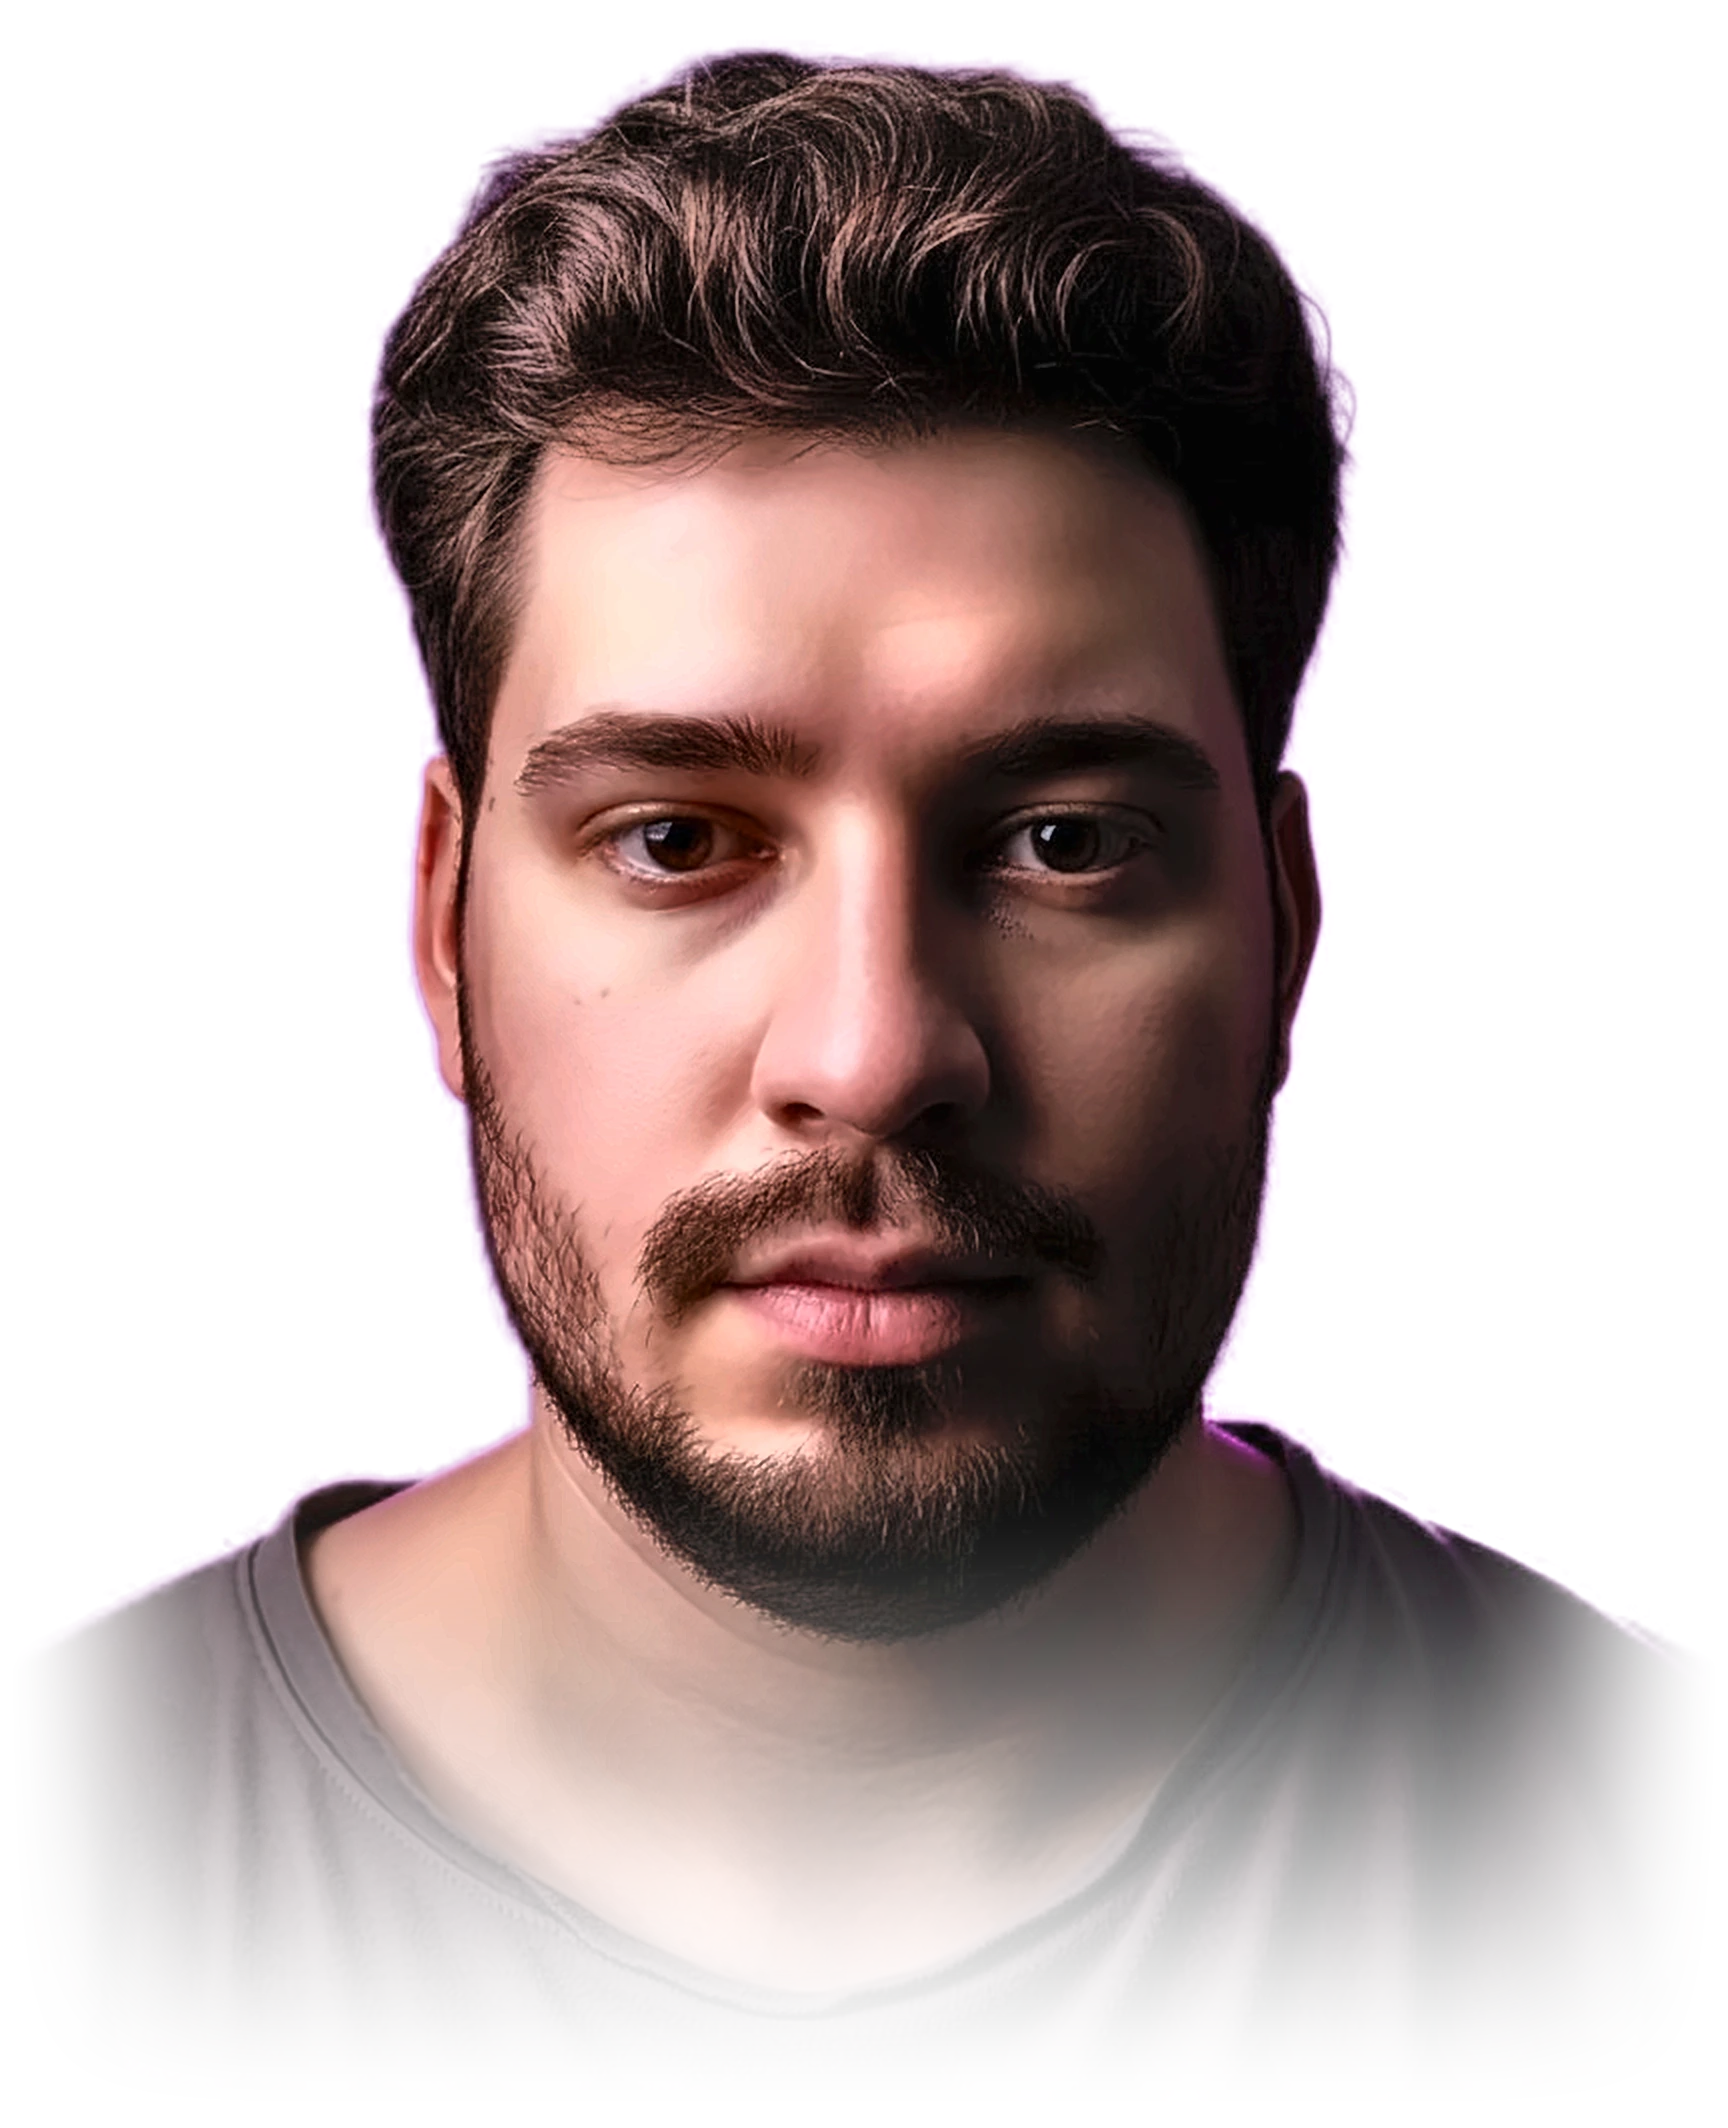
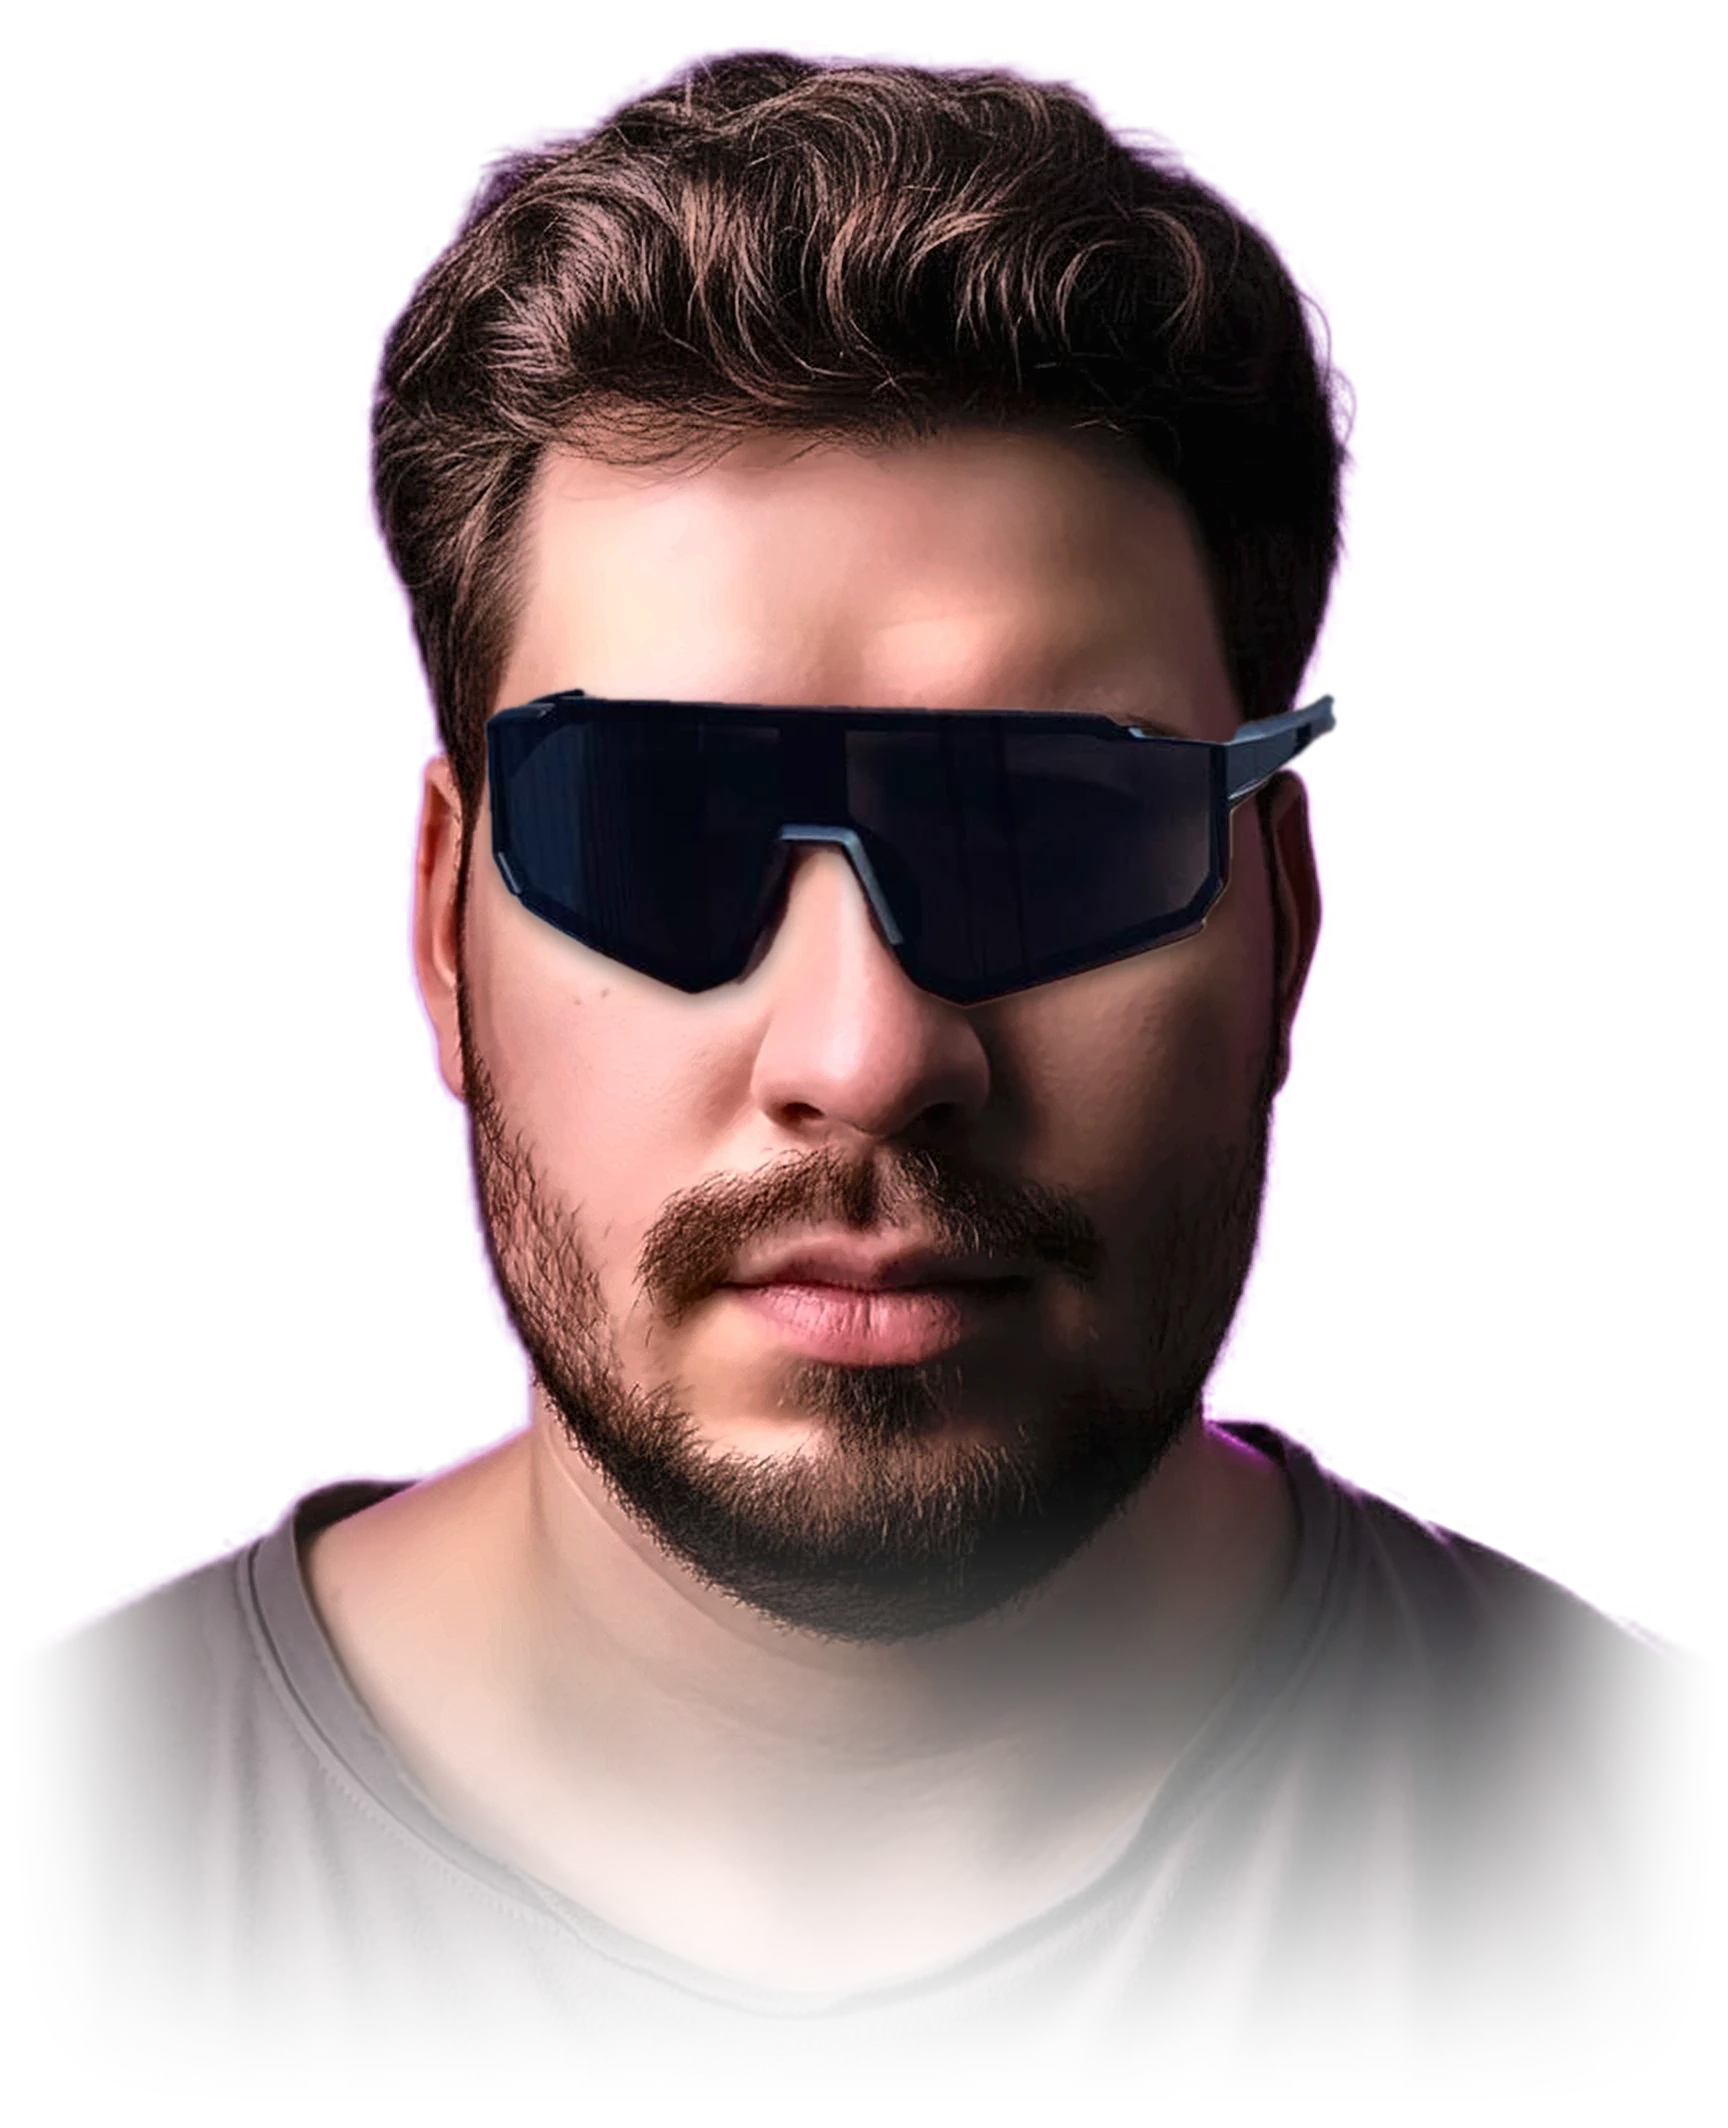
v2: shield glasses composited into hero photo, video masked inside lens
Claude-Session: https://claude.ai/code/session_016mbQdegGQk4836ehLAt8v1

Changed region(s): [[0.2812, 0.3102, 0.7812, 0.4962]]

diff --git a/v2/template.html b/v2/template.html
@@ -54,25 +54,7 @@
   <div class="hero-top mono"><span class="hide-s">UX/UI · WEB · MOBILE · CRM</span></div>
   <div class="hero-glow g1" aria-hidden="true"></div><div class="hero-glow g2" aria-hidden="true"></div>
   <div class="hero-bgtxt" aria-hidden="true"><div class="bgrow rev"><div class="mq-t"><span>UXUI</span><span class="o">UXUI</span></div></div><div class="bgrow"><div class="mq-t"><span>UXUI</span><span class="o">UXUI</span></div></div></div>
-  <div class="hero-fig" aria-hidden="true"><div class="hero-ph" id="hero-ph"><div class="hero-bob"><img class="me" src="{{ROOT}}v2/img/me.webp" width="1728" height="2128" alt="" fetchpriority="high"><img class="me lit" src="{{ROOT}}v2/img/me.webp" width="1728" height="2128" alt=""><div class="glasses" aria-hidden="true">
-    <svg class="gl-defs" width="0" height="0" style="position:absolute"><defs><clipPath id="lensclip" clipPathUnits="objectBoundingBox"><path d="M0.0098,0.1000 L0.9926,0.0500 L1.0025,0.4500 L0.9069,0.8500 L0.6863,0.9750 L0.5858,0.4250 L0.4167,0.4250 L0.3162,0.9750 L0.0980,0.9000 L0.0000,0.5000 Z"/></clipPath></defs></svg>
-    <svg class="gl-tint" viewBox="0 0 864 1064" preserveAspectRatio="none"><path d="M236,392 L637,388 L641,420 L602,452 L512,462 L471,418 L402,418 L361,462 L272,456 L232,424 Z" fill="rgba(6,2,18,.78)"/></svg>
-    <video class="gl-video" id="gl-video" src="{{ROOT}}v2/video/visor.mp4" poster="{{ROOT}}v2/video/visor.jpg" muted loop playsinline autoplay preload="auto"></video>
-    <svg class="gl-frame" viewBox="0 0 864 1064" preserveAspectRatio="none">
-      <defs><linearGradient id="gloss" x1="0" y1="0" x2="1" y2="1"><stop offset="0" stop-color="#fff" stop-opacity=".38"/><stop offset=".4" stop-color="#fff" stop-opacity=".05"/><stop offset=".5" stop-color="#fff" stop-opacity="0"/></linearGradient>
-      <filter id="neon" x="-20%" y="-40%" width="140%" height="180%"><feGaussianBlur stdDeviation="3" result="b"/><feMerge><feMergeNode in="b"/><feMergeNode in="SourceGraphic"/></feMerge></filter></defs>
-      <path d="M236,392 L637,388 L641,420 L602,452 L512,462 L471,418 L402,418 L361,462 L272,456 L232,424 Z" fill="url(#gloss)" style="mix-blend-mode:screen"/>
-      <g fill="none" stroke-linejoin="round" stroke-linecap="round">
-        <path d="M236,394 L212,404 L208,470 M637,390 L662,400 L664,468" stroke="#0b0b10" stroke-width="9"/>
-        <path d="M236,392 L637,388 L641,420 L602,452 L512,462 L471,418 L402,418 L361,462 L272,456 L232,424 Z" stroke="#0b0b10" stroke-width="11"/>
-        <path d="M236,388 L637,384" stroke="#0b0b10" stroke-width="14"/>
-        <path d="M402,418 L471,418" stroke="#0b0b10" stroke-width="12"/>
-        <path d="M238,382 L636,378" stroke="#b44cff" stroke-width="2.4" filter="url(#neon)"/>
-        <path d="M236,392 L637,388 L641,420 L602,452 L512,462 L471,418 L402,418 L361,462 L272,456 L232,424 Z" stroke="#7b22e6" stroke-width="1.6" opacity=".85"/>
-      </g>
-      <path d="M240,396 L254,394 M624,392 L634,391" stroke="#fff" stroke-width="2" opacity=".6"/>
-    </svg>
-  </div></div></div></div>
+  <div class="hero-fig" aria-hidden="true"><div class="hero-ph" id="hero-ph"><div class="hero-bob"><img class="me" src="{{ROOT}}v2/img/me.webp" width="1728" height="2128" alt="" fetchpriority="high"><img class="me lit" src="{{ROOT}}v2/img/me.webp" width="1728" height="2128" alt=""><div class="glasses" aria-hidden="true"><video class="gl-video" id="gl-video" src="{{ROOT}}v2/video/visor.mp4" poster="{{ROOT}}v2/video/visor.jpg" muted loop playsinline autoplay preload="auto"></video></div></div></div></div>
   <h1 class="hero-h">
     <span class="ln"><span class="ln-i out">[[h1a]]</span></span>
     <span class="ln r"><span class="ln-i fill">[[h1b]]</span></span>

diff --git a/v2/index.html b/v2/index.html
@@ -54,25 +54,7 @@
   <div class="hero-top mono"><span class="hide-s">UX/UI · WEB · MOBILE · CRM</span></div>
   <div class="hero-glow g1" aria-hidden="true"></div><div class="hero-glow g2" aria-hidden="true"></div>
   <div class="hero-bgtxt" aria-hidden="true"><div class="bgrow rev"><div class="mq-t"><span>UXUI</span><span class="o">UXUI</span></div></div><div class="bgrow"><div class="mq-t"><span>UXUI</span><span class="o">UXUI</span></div></div></div>
-  <div class="hero-fig" aria-hidden="true"><div class="hero-ph" id="hero-ph"><div class="hero-bob"><img class="me" src="../v2/img/me.webp" width="1728" height="2128" alt="" fetchpriority="high"><img class="me lit" src="../v2/img/me.webp" width="1728" height="2128" alt=""><div class="glasses" aria-hidden="true">
-    <svg class="gl-defs" width="0" height="0" style="position:absolute"><defs><clipPath id="lensclip" clipPathUnits="objectBoundingBox"><path d="M0.0098,0.1000 L0.9926,0.0500 L1.0025,0.4500 L0.9069,0.8500 L0.6863,0.9750 L0.5858,0.4250 L0.4167,0.4250 L0.3162,0.9750 L0.0980,0.9000 L0.0000,0.5000 Z"/></clipPath></defs></svg>
-    <svg class="gl-tint" viewBox="0 0 864 1064" preserveAspectRatio="none"><path d="M236,392 L637,388 L641,420 L602,452 L512,462 L471,418 L402,418 L361,462 L272,456 L232,424 Z" fill="rgba(6,2,18,.78)"/></svg>
-    <video class="gl-video" id="gl-video" src="../v2/video/visor.mp4" poster="../v2/video/visor.jpg" muted loop playsinline autoplay preload="auto"></video>
-    <svg class="gl-frame" viewBox="0 0 864 1064" preserveAspectRatio="none">
-      <defs><linearGradient id="gloss" x1="0" y1="0" x2="1" y2="1"><stop offset="0" stop-color="#fff" stop-opacity=".38"/><stop offset=".4" stop-color="#fff" stop-opacity=".05"/><stop offset=".5" stop-color="#fff" stop-opacity="0"/></linearGradient>
-      <filter id="neon" x="-20%" y="-40%" width="140%" height="180%"><feGaussianBlur stdDeviation="3" result="b"/><feMerge><feMergeNode in="b"/><feMergeNode in="SourceGraphic"/></feMerge></filter></defs>
-      <path d="M236,392 L637,388 L641,420 L602,452 L512,462 L471,418 L402,418 L361,462 L272,456 L232,424 Z" fill="url(#gloss)" style="mix-blend-mode:screen"/>
-      <g fill="none" stroke-linejoin="round" stroke-linecap="round">
-        <path d="M236,394 L212,404 L208,470 M637,390 L662,400 L664,468" stroke="#0b0b10" stroke-width="9"/>
-        <path d="M236,392 L637,388 L641,420 L602,452 L512,462 L471,418 L402,418 L361,462 L272,456 L232,424 Z" stroke="#0b0b10" stroke-width="11"/>
-        <path d="M236,388 L637,384" stroke="#0b0b10" stroke-width="14"/>
-        <path d="M402,418 L471,418" stroke="#0b0b10" stroke-width="12"/>
-        <path d="M238,382 L636,378" stroke="#b44cff" stroke-width="2.4" filter="url(#neon)"/>
-        <path d="M236,392 L637,388 L641,420 L602,452 L512,462 L471,418 L402,418 L361,462 L272,456 L232,424 Z" stroke="#7b22e6" stroke-width="1.6" opacity=".85"/>
-      </g>
-      <path d="M240,396 L254,394 M624,392 L634,391" stroke="#fff" stroke-width="2" opacity=".6"/>
-    </svg>
-  </div></div></div></div>
+  <div class="hero-fig" aria-hidden="true"><div class="hero-ph" id="hero-ph"><div class="hero-bob"><img class="me" src="../v2/img/me.webp" width="1728" height="2128" alt="" fetchpriority="high"><img class="me lit" src="../v2/img/me.webp" width="1728" height="2128" alt=""><div class="glasses" aria-hidden="true"><video class="gl-video" id="gl-video" src="../v2/video/visor.mp4" poster="../v2/video/visor.jpg" muted loop playsinline autoplay preload="auto"></video></div></div></div></div>
   <h1 class="hero-h">
     <span class="ln"><span class="ln-i out">Дизайн и</span></span>
     <span class="ln r"><span class="ln-i fill">интерфейсы</span></span>

diff --git a/v2/css/v2.css b/v2/css/v2.css
@@ -488,7 +488,7 @@ html:not(.js) .bars-row b{transform:none}
 /* ===== v3: очки, фон hero, CTA, чёрные блоки ===== */
 .glasses{position:absolute;inset:0;pointer-events:none}
 .glasses svg.gl-tint,.glasses svg.gl-frame{position:absolute;inset:0;width:100%;height:100%}
-.gl-video{position:absolute;left:26.85%;top:36.09%;width:47.22%;height:7.52%;object-fit:cover;clip-path:url(#lensclip);mix-blend-mode:screen;opacity:.95}
+.gl-video{position:absolute;left:29.34%;top:33.41%;width:41.09%;height:12.92%;object-fit:cover;mix-blend-mode:screen;opacity:.92;-webkit-mask:url(../img/lens-mask.png) center/100% 100% no-repeat;mask:url(../img/lens-mask.png) center/100% 100% no-repeat}
 .hero-bgtxt{position:absolute;inset:0;z-index:1;display:flex;flex-direction:column;justify-content:center;gap:.02em;overflow:hidden;pointer-events:none;font-family:var(--disp);font-weight:700;font-size:clamp(150px,27vw,420px);line-height:.86;text-transform:uppercase;color:rgba(243,239,232,.045);user-select:none;transform:translateY(-6%)}
 .hero-bgtxt .bgrow{display:flex;white-space:nowrap}
 .hero-bgtxt .mq-t{display:flex;flex:none;gap:.25em;padding-right:.25em;will-change:transform}
